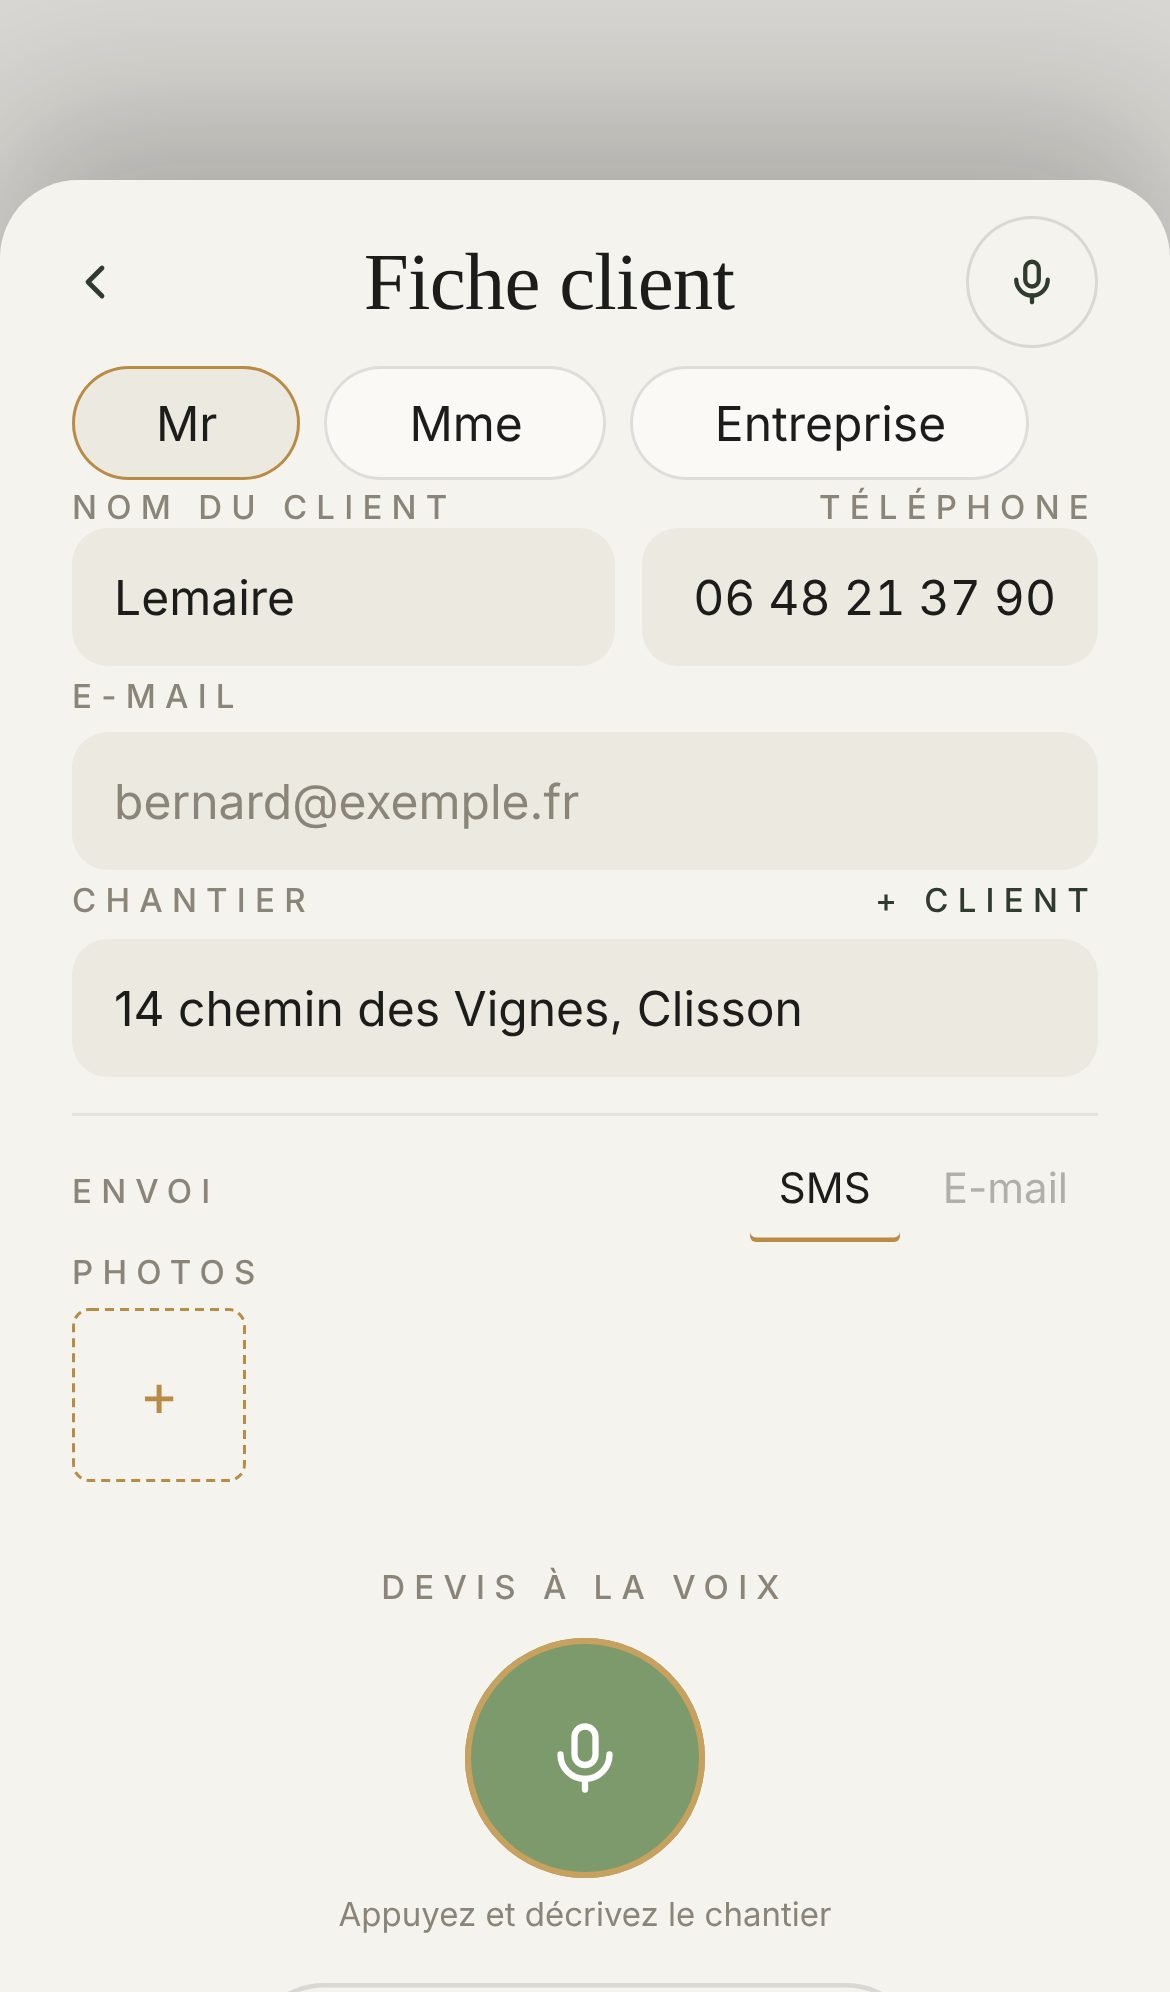
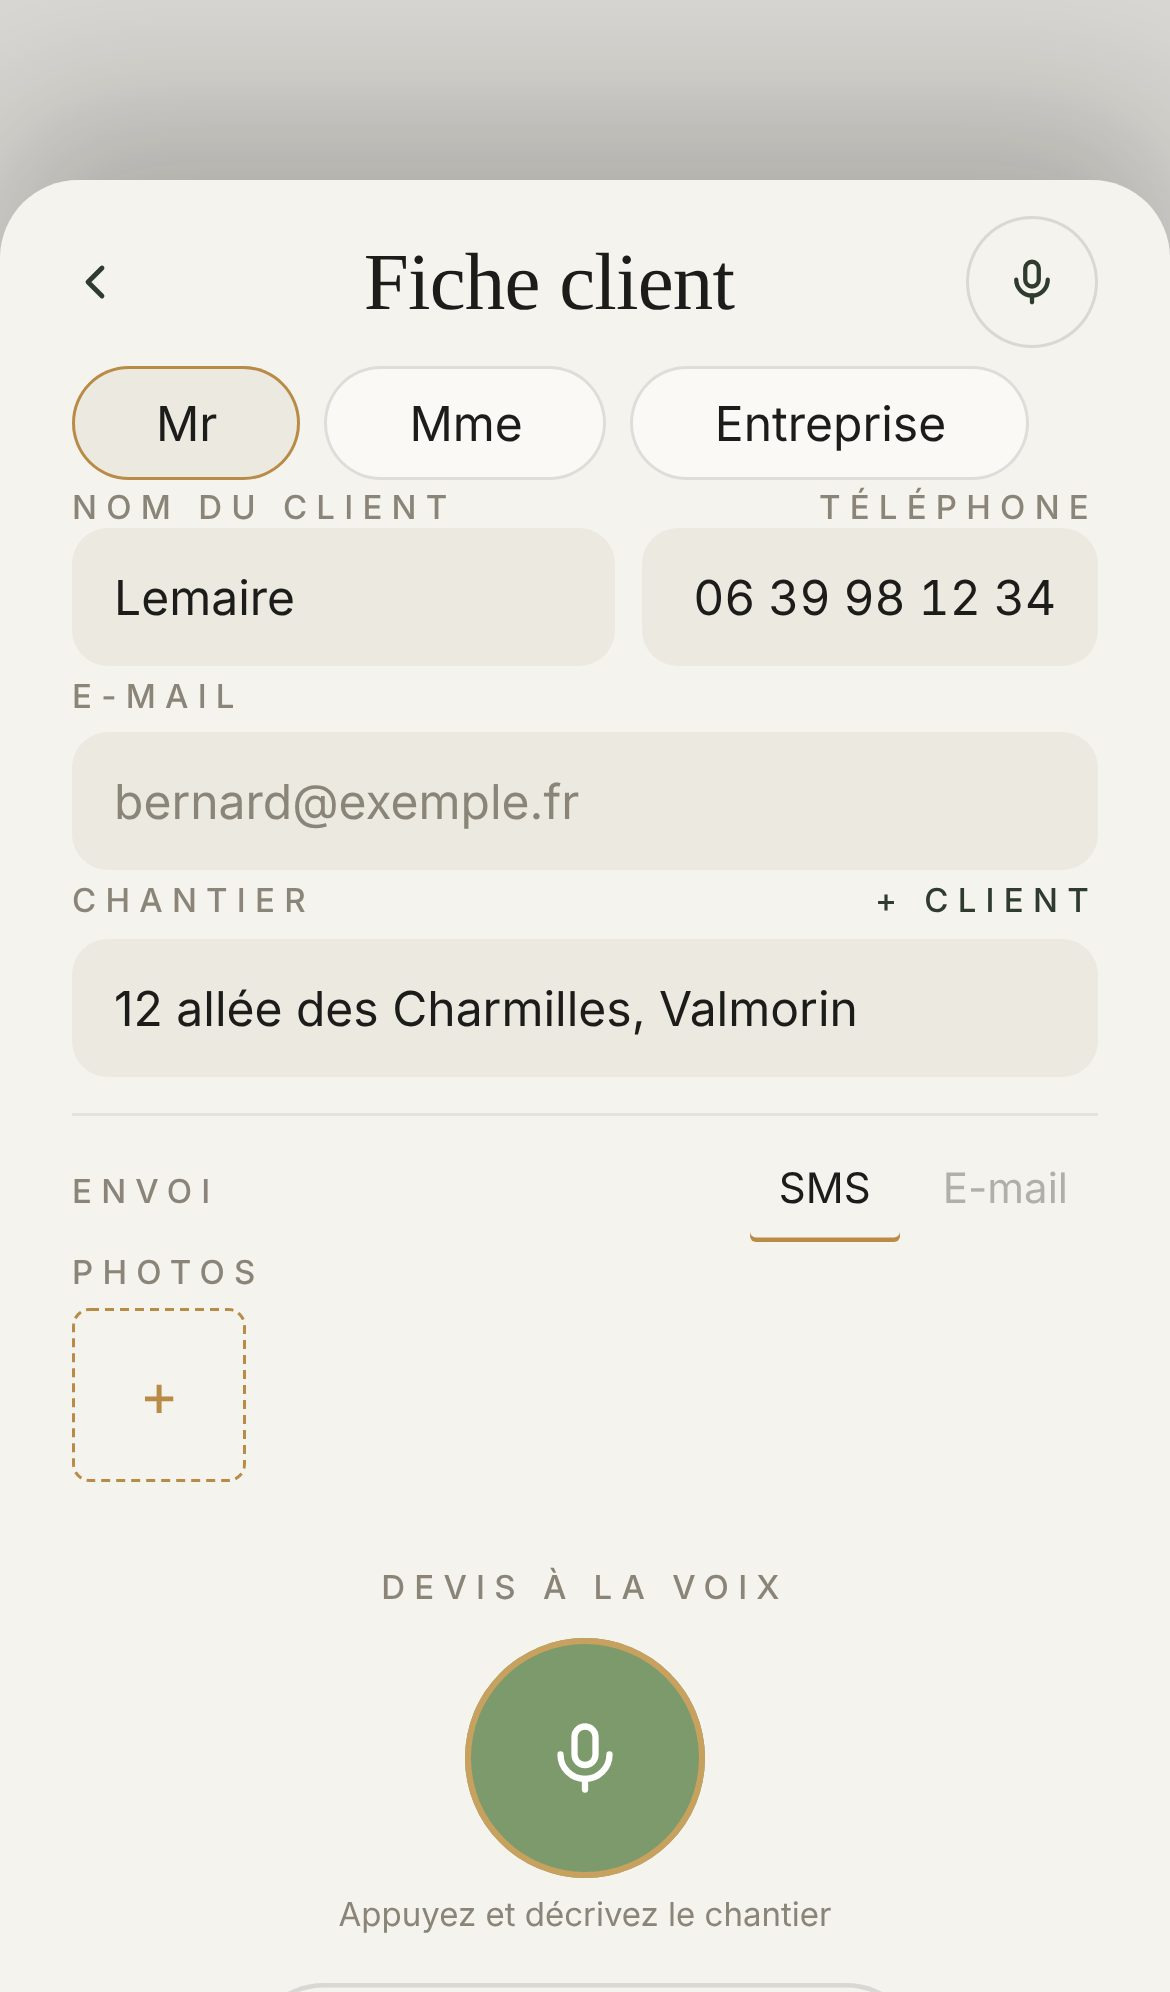
Faire suivre à la planche un seul chantier, du devis à la TVA
Il veut que le visiteur suive un même chantier du début à la fin, avec un
nom, une adresse et un numéro qui n'appartiennent à personne. Tout le
parcours est rejoué dans l'application actuelle, sur une base d'essai
réamorcée : Mr. Lemaire, 06 39 98 12 34 (tranche réservée à la fiction
par l'Arcep), 12 allée des Charmilles à Valmorin (commune inventée), le
devis « Création d'un massif » envoyé, accepté sur la page du client,
réalisé le jeudi 8, facturé, encaissé, et sa TVA. La page du client
montre maintenant la case de rétractation cochée, puis « C'est noté ».

Claude-Session: https://claude.ai/code/session_01NQoyfwDaCHL2WnQ4DJVN7i

diff --git a/appli/vente/defilement.html b/appli/vente/defilement.html
@@ -19,14 +19,16 @@
   la facture et la TVA.
   Pas la page Outils.
 
-  Toutes les images sont des captures d'Atlas (dossier images/, partagé avec
-  index.html). Le début est capturé le 8 octobre sur l'application ACTUELLE,
-  geste par geste : accueil.jpg (Vos chantiers), feuille-vide.jpg (appui sur
-  « Créer un devis », la feuille Fiche client monte), feuille-remplie.jpg (nom,
-  téléphone, adresse tapés dans la feuille), et le micro dessiné qui s'allume par-dessus celui de la feuille. Puis le
-  planning en couleurs, la journée ouverte (planning-jour.jpg, en entier), la
-  fiche de sécurité, un retour d'intervention, Terminés, la facture et la TVA
-  d'octobre, toutes capturées le 8 octobre sur l'application actuelle.
+  Toutes les images sont des captures d'Atlas, prises le 8 octobre 2026 sur
+  l'application actuelle, et elles suivent UN SEUL chantier (sa demande du même
+  jour) : Mr. Lemaire, 06 39 98 12 34, 12 allée des Charmilles, Valmorin, devis
+  « Création d'un massif » à 862,20 € TTC. Le numéro est dans la tranche 06 39 98
+  que l'Arcep réserve aux œuvres de fiction ; Valmorin est une commune inventée,
+  pour qu'aucune adresse ne tombe chez quelqu'un. Tout est passé par les boutons
+  de l'application (fiche remplie, devis rédigé, envoi, accord du client sur sa
+  page, salariés posés, facture, encaissement), sauf ce qui demande un compte
+  salarié : le retour d'intervention et la fin du chantier ont été écrits dans la
+  base d'essai. Les autres chantiers du planning sont ceux du jeu d'essai.
   Les anneaux qui battent autour d'un bouton sont les seuls traits dessinés
   par-dessus une capture : ils montrent où l'on appuie.
 
@@ -154,7 +156,7 @@ h1,h2{font-family:var(--display);font-weight:400;line-height:1.02;letter-spacing
 
 <header class="barre">
   <a class="marque" href="index.html">Atlas</a>
-  <div class="horloge" aria-hidden="true"><b id="heure"><span id="h-h">7</span> h <span id="h-d">3</span><span id="h-u">0</span></b><small id="jour">Mardi matin</small></div>
+  <div class="horloge" aria-hidden="true"><b id="heure"><span id="h-h">7</span> h <span id="h-d">3</span><span id="h-u">0</span></b><small id="jour">Jeudi matin</small></div>
   <div class="fil"><i id="fil"></i></div>
 </header>
 
@@ -220,21 +222,21 @@ h1,h2{font-family:var(--display);font-weight:400;line-height:1.02;letter-spacing
 (function(){
   var IMG = {
     chantiers:"images/accueil.jpg", vide:"images/feuille-vide.jpg", client:"images/feuille-remplie.jpg",
-    devis:"images/devis-entier.jpg", accepte:"images/client-devis.jpg",
+    devis:"images/devis-entier.jpg", accepte:"images/accord.jpg", merci:"images/accord-merci.jpg",
     planning:"images/planning-mois.jpg", jour:"images/planning-jour.jpg", securite:"images/securite.jpg",
     retour:"images/retour.jpg", termines:"images/termines-a-facturer.jpg",
     facture:"images/facture.jpg", tva:"images/tva-octobre.jpg"
   };
   // Hauteur sur largeur de chaque capture. Le devis est pris en entier, du haut à la signature.
-  var RAPPORT = {devis: 8247 / 1170, jour: 4400 / 1170};
+  var RAPPORT = {devis: 8058 / 1170, jour: 4450 / 1170};
   function rapport(img){ return RAPPORT[img] || 1992 / 1170; }
 
   // Ce qu'on lit sous la page, et le moment de la journée.
   var ETAPES = [
-    {u:0,    mot:"Chantier", txt:"Vos chantiers du jour, au même endroit.", jour:"Mardi matin", img:"chantiers"},
-    {u:2.3,  mot:"Client",   txt:"Créer un devis : la fiche client s'ouvre.",     jour:"Mardi matin", img:"client"},
-    {u:4.6,  mot:"Dictée",   txt:"Vous dites ce qu'il y a à faire.",         jour:"Mardi matin", img:"client"},
-    {u:7.8,  mot:"Devis",    txt:"Le devis est déjà écrit.",                 jour:"Mardi matin", img:"devis"},
+    {u:0,    mot:"Chantier", txt:"Vos chantiers du jour, au même endroit.", jour:"Jeudi matin", img:"chantiers"},
+    {u:2.3,  mot:"Client",   txt:"Créer un devis : la fiche client s'ouvre.",     jour:"Jeudi matin", img:"client"},
+    {u:4.6,  mot:"Dictée",   txt:"Vous dites ce qu'il y a à faire.",         jour:"Jeudi matin", img:"client"},
+    {u:7.8,  mot:"Devis",    txt:"Le devis est déjà écrit.",                 jour:"Jeudi matin", img:"devis"},
     {u:11.1, mot:"Accord",   txt:"Le client accepte depuis son téléphone.",  jour:"Devis envoyé", img:"accepte"},
     {u:13.3, mot:"Planning", txt:"Le chantier se pose au planning.",          jour:"Devis envoyé", img:"planning"},
     {u:14.7, mot:"Le jour J", txt:"Appeler le client, ouvrir Maps, poser l'équipe.", jour:"Devis envoyé", img:"jour"},
@@ -335,9 +337,9 @@ h1,h2{font-family:var(--display);font-weight:400;line-height:1.02;letter-spacing
 
   var POULS_CREER = {x:22, y:23.3, l:56, h:7};
   var POULS_MICRO = {x:39.65, y:82, l:20.7, h:12.1, rond:true};
-  var POULS_ACCORD = {x:4, y:65.5, l:92, h:8};
+  var POULS_ACCORD = {x:4, y:81.8, l:92, h:7.5};
   var POULS_FACTURER = {x:61, y:68.5, l:33, h:6.7};
-  var POULS_JOUR = {x:2.7, y:58, l:13, h:8};
+  var POULS_JOUR = {x:43.5, y:50.5, l:13, h:8};
   var U = 28;
 
   function etat(u){
@@ -376,8 +378,9 @@ h1,h2{font-family:var(--display);font-weight:400;line-height:1.02;letter-spacing
       var r = lisse((te - 0.6) / 0.4);
       b = {img:"accepte", o:r, s:0.9 + 0.1 * r, y:H * 0.06 * (1 - r)};
     }
-    else if (u < 12.5) a = {img:"accepte", pouls:Object.assign({v:entre(u, 11.6, 11.8) * (1 - entre(u, 12.2, 12.45))}, POULS_ACCORD)};
-    else if (u < 14.1) a = journal("accepte", "planning", (u - 12.5) / 1.6);
+    else if (u < 12.1) a = {img:"accepte", pouls:Object.assign({v:entre(u, 11.55, 11.7) * (1 - entre(u, 11.95, 12.1))}, POULS_ACCORD)};
+    else if (u < 12.5){ var tc = lisse((u - 12.1) / 0.3); a = {img:"accepte", o:1 - tc}; b = {img:"merci"}; }
+    else if (u < 14.1) a = journal("merci", "planning", (u - 12.5) / 1.6);
     else if (u < 14.6) a = {img:"planning", pouls:Object.assign({v:entre(u, 14.15, 14.3) * (1 - entre(u, 14.45, 14.6)), rond:true}, POULS_JOUR)};
     else if (u < 15.0){ var tj = lisse((u - 14.6) / 0.4); a = {img:"planning", o:1 - tj}; b = {img:"jour"}; }
     // La journée ouverte se lit en entier : la page descend jusqu'à la fiche d'intervention.

diff --git a/CHANGELOG.md b/CHANGELOG.md
@@ -35,25 +35,25 @@ planning, équipe, facture, TVA). Rien n'est codé dans l'application.
   dans une brouette (son idée du jour, la brouette retenue parmi quatre).
   Dix-sept pièces, une par minute ; rien ne s'affiche avec une réduction des
   animations.
-- Le devis se montre en entier, et la page défile jusqu'à la signature pendant
-  qu'on descend. Il a été rédigé à la main dans l'application actuelle (quatre
-  lignes de paysage, M. Lemaire, 862,20 € TTC). Le bouton « Choisir la date »,
-  collé en bas de l'écran, est retiré de la capture longue, où il tombait au
-  milieu.
-- La journée est ajoutée, à sa demande : le planning d'octobre dans les
-  couleurs de l'appli (vert foncé plein, vert clair à moitié, rouge quand il
-  y a trop, avec deux chantiers par jour), l'appui sur le 12, puis la journée
-  ouverte qui défile jusqu'à la fiche d'intervention (Maps, Waze, Appeler le
-  client, Lucas et Julien posés au clic). Suivent la fiche de sécurité, un
-  retour d'intervention, Terminés, la facture et la TVA d'octobre (331,80 €,
-  après un encaissement saisi dans l'appli). Les créneaux, les couleurs et le
-  retour d'intervention ont été posés directement dans la base d'essai ; tout
-  le reste l'a été par les boutons de l'application. L'organigramme est
-  retiré : la journée montre déjà les salariés.
-- Seule l'acceptation du client porte encore une capture du 27 septembre :
-  la page publique du devis ne s'ouvre pas ici, l'envoi refusant une adresse
-  locale. Le site de vente principal (`vente/index.html`) porte toujours les
-  captures anciennes.
+- Le devis se montre en entier et défile jusqu'à la signature ; la journée
+  ouverte défile jusqu'à la fiche d'intervention (Maps, Waze, Appeler le
+  client, salariés). Le planning garde les couleurs de l'appli : vert foncé
+  plein, vert clair à moitié, rouge quand il y a trop.
+- **Un seul chantier, du début à la fin** (sa demande) : Mr. Lemaire,
+  06 39 98 12 34, 12 allée des Charmilles, Valmorin, devis « Création d'un
+  massif » à 862,20 € TTC, accepté et réalisé le jeudi 8 octobre, facturé et
+  payé, TVA 143,70 €. Le numéro est dans la tranche 06 39 98 que l'Arcep
+  réserve aux œuvres de fiction ; Valmorin est une commune inventée (la Base
+  adresse nationale n'est pas joignable ici pour vérifier une rue). Tout est
+  passé par les boutons de l'application, sur une base d'essai réamorcée,
+  sauf ce qui demande un compte salarié : le retour d'intervention et la fin
+  du chantier ont été écrits dans la base. Les autres chantiers du planning
+  sont ceux du jeu d'essai, posés en base pour donner des couleurs.
+- Une tentative de jouer chaque étape à sa date en avançant l'horloge de la
+  machine d'essai a été refusée par le garde de la session ; l'horloge a été
+  remise à l'heure réelle, et tout le parcours a été rejoué le 8 octobre.
+- Le site de vente principal (`vente/index.html`) porte toujours les
+  captures du 27 septembre.
 
 ### Un devis expiré n'est plus un chantier vendu : il se range à part, et revient par sa porte
 
